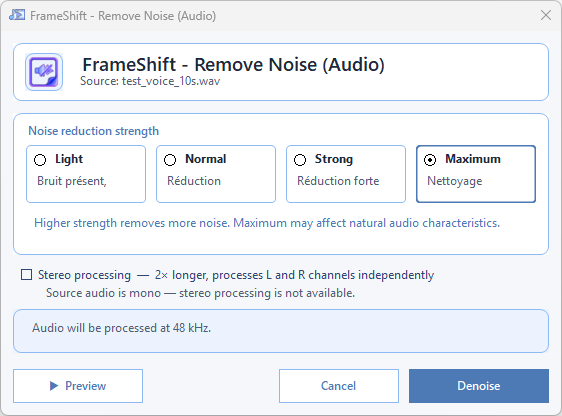
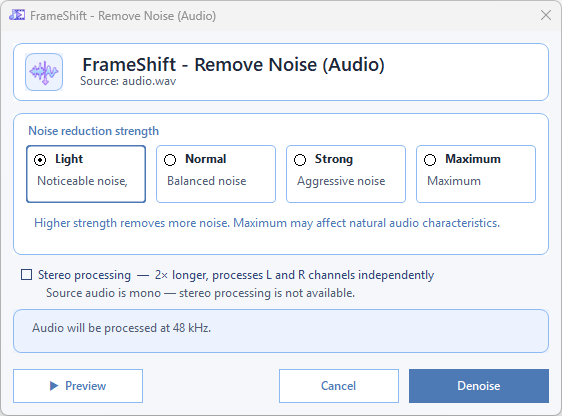
Update remove-noise screenshots and default RIFE selection

diff --git a/src/FrameShift/Core/AI/VideoInterpolation/RifeModelCatalog.cs b/src/FrameShift/Core/AI/VideoInterpolation/RifeModelCatalog.cs
@@ -30,7 +30,8 @@ internal static class RifeModelCatalog
 
     public static IReadOnlyList<RifeModelDefinition> GetAll() => s_models;
 
-    public static RifeModelDefinition GetDefault() => s_models[0];
+    public static RifeModelDefinition GetDefault() =>
+        GetById("rife-v426-x2") ?? s_models[0];
 
     public static RifeModelDefinition? GetById(string? modelId)
     {
